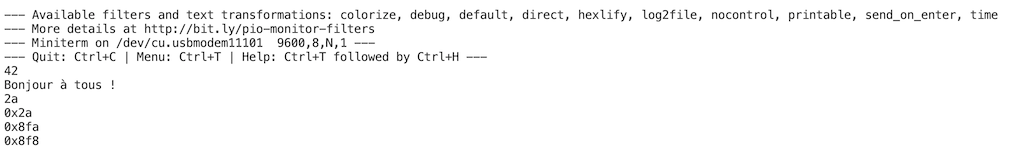
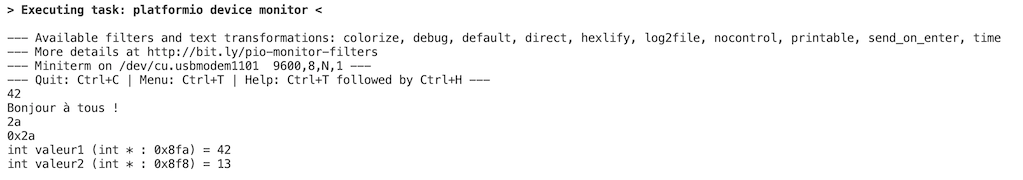
En cours Module 02

Changed region(s): [[0.0, 0.1579, 1.0, 0.9737], [0.0, 0.0263, 1.0, 0.1579]]

diff --git a/Module02_Introduction_Cpp/AMOC_Module02_DemoPortSerie/src/main.cpp b/Module02_Introduction_Cpp/AMOC_Module02_DemoPortSerie/src/main.cpp
@@ -1,4 +1,5 @@
 #include <Arduino.h>
+#include "passageParametres.h"
 
 void setup()
 {
@@ -6,12 +7,16 @@ void setup()
 
   int valeur1 = 42;
   int valeur2 = 13;
+  
   Serial.println(42);
   Serial.println("Bonjour à tous !");
   Serial.println(String(42, HEX));
   Serial.println("0x" + String(42, HEX));
-  Serial.println("0x" + String((uint16_t)(&valeur1), HEX));
-  Serial.println("0x" + String((uint16_t)(&valeur2), HEX));
+  Serial.println("int valeur1 (int * : 0x" + String((uint16_t)(&valeur1), HEX) + ") = " + String(valeur1));
+  Serial.println("int valeur2 (int * : 0x" + String((uint16_t)(&valeur2), HEX) + ") = " + String(valeur2));
+
+  Serial.println("Appel de passageDeParametres1(valeur1, valeur1, &valeur2);");
+  passageDeParametres1(valeur1, valeur1, &valeur2);
 }
 
 void loop()

diff --git a/Module02_Introduction_Cpp/AMOC_Module02_DemoPortSerie/src/passageParametres.cpp b/Module02_Introduction_Cpp/AMOC_Module02_DemoPortSerie/src/passageParametres.cpp
@@ -1,0 +1,9 @@
+#include <Arduino.h>
+
+#include "passageParametres.h"
+
+void passageDeParametres1(int p_v1, int &p_r1, int *p_p1) {
+  Serial.println("int p_v1 (int * : 0x" + String((uint16_t)(&p_v1), HEX) + ") = " + String(p_v1));
+  Serial.println("int &p_r1 (int * : 0x" + String((uint16_t)(&p_r1), HEX) + ") = " + String(p_r1));
+  Serial.println("int *p_p1 (int ** : 0x" + String((uint16_t)(&p_p1), HEX) + ") adresse : 0x" + String((uint16_t)p_p1, HEX) + " = " + String(*p_p1));
+}

diff --git a/Module02_Introduction_Cpp/AMOC_Module02_PreparationExercices/src/main.cpp b/Module02_Introduction_Cpp/AMOC_Module02_PreparationExercices/src/main.cpp
@@ -24,3 +24,5 @@ void loop()
   Serial.println(calculerMinimum(2 + 3, 4 + 7));
   Serial.println(calculerMaximum(2.0 + 3, 4.0 + 7));
 }
+
+

diff --git a/Module02_Introduction_Cpp/AMOC_Module02_DemoPortSerie/include/passageParametres.h b/Module02_Introduction_Cpp/AMOC_Module02_DemoPortSerie/include/passageParametres.h
@@ -1,0 +1,3 @@
+#pragma once
+
+void passageDeParametres1(int p_v1, int &p_r1, int *p_p1);

diff --git a/Module02_Introduction_Cpp/Module02_Introduction_Cpp_Exercices.md b/Module02_Introduction_Cpp/Module02_Introduction_Cpp_Exercices.md
@@ -8,35 +8,6 @@ Pour l'ensemble de ces exercices, vous allez utiliser :
 - Un café ou thé
 - De la patience ;)
 
-## Préambule - Affichage d'information sur le moniteur série
-
-Afin d'afficher de l'information, nous allons écrire du texte sur le port série simulé par votre Arduino. Avant de pouvoir écrire sur votre port série, vous devez configurer la vitesse de connexion du port série. Pour cela, dans la fonction "setup", appelez la méthode "begin" de l'objet accessible à partir de la variable globale "Serial". Pour cela, ajoutez l'instruction suivante ```Serial.begin(9600)```.
-
-À partir du moment où le port est initialisé, vous pouvez utiliser les méthodes "print" et "println" accessible à partir de la variable globale "Serial".
-
-Exemple :
-
-![Démo écriture sur le port série](img/moniteur_serie_exemple_code.png)
-
-- Créez le projet "AMOC_Module02_EssaisPortSerie"
-- Tapez le code de l'exemple, corrigez les erruers et téléversez le programme compilé dans votre Arduino
-- Allez visionner le résultat sur la console du port série. Pour cela cliquez sur l'icône en forme de prise qui se situe à côté du bouton de téléversement du code ([1]). Cela va ouvrir une console où les textes vont s'afficher ([2]) :
-
-![Console série](img/moniteur_serie.png)
-
-- Vous devriez obtenir un résultat proche de l'image suivante :
-
-![Résultat console](img/moniteur_serie_exemple_resultat.png)
-
-- À partir de votre résultat, en vous concentrant sur les deux derniers entiers qui sont affichés, validez la taille d'un entier.
-
-<details>
-    <summary>Indice #1</summary>
-
-Faites la soustraction des deux adresses correspondantes aux entiers.
-
-</details>
-
 ## Exercice 1 - Création de vos premières fonctions et manipulation de la structure du projet
 
 ### Exercice 1.1 - Séparation des déclarations et définitions
@@ -119,11 +90,67 @@ Dans cet exemple l'utilisation du paramètre ```x``` est encadrée par des paren
 
 Dans cet exercice, vous allez jouer avec les références et les pointeurs afin de mieux comprendre de quoi il en retourne.
 
+### Exercice 2.1 - Préambule - Affichage d'information sur le moniteur série
 
+Afin d'afficher de l'information, nous allons écrire du texte sur le port série simulé par votre Arduino. Avant de pouvoir écrire sur votre port série, vous devez configurer la vitesse de connexion du port série. Pour cela, dans la fonction "setup", appelez la méthode "begin" de l'objet accessible à partir de la variable globale "Serial". Pour cela, ajoutez l'instruction suivante ```Serial.begin(9600)```.
 
-### Exercice 2.2
+À partir du moment où le port est initialisé, vous pouvez utiliser les méthodes "print" et "println" accessible à partir de la variable globale "Serial".
 
+Exemple :
 
+![Démo écriture sur le port série](img/moniteur_serie_exemple_code.png)
+
+- Créez le projet "AMOC_Module02_EssaisPortSerie"
+- Tapez le code de l'exemple, corrigez les erruers et téléversez le programme compilé dans votre Arduino
+- Allez visionner le résultat sur la console du port série. Pour cela cliquez sur l'icône en forme de prise qui se situe à côté du bouton de téléversement du code ([1]). Cela va ouvrir une console où les textes vont s'afficher ([2]) :
+
+![Console série](img/moniteur_serie.png)
+
+- Vous devriez obtenir un résultat proche de l'image suivante :
+
+![Résultat console](img/moniteur_serie_exemple_resultat.png)
+
+- À partir de votre résultat, en vous concentrant sur les deux derniers entiers qui sont affichés, validez la taille d'un entier.
+
+<details>
+    <summary>Indice #1</summary>
+
+Faites la soustraction des deux adresses correspondantes aux entiers.
+
+</details>
+
+### Exercice 2.2 - Observations
+
+- Ajoutez la fonction suivante en répartissant la déclaration et la définition dans les fichiers "passageParametres.(cpp/h)"
+
+![Objservation des passages de paramètres](img/sortes_passage_parametres_code.png)
+
+- Modifiez le code de l'exercice précédent afin d'y intégrer l'appel à votre nouvelle fonction
+
+![Appel de passageDeParametres](img/sortes_passage_parametres_code_appel.png)
+
+- Vous devriez avoir un affichage similaire au suivant :
+
+![Affichage des adresses suivant l'affichage](img/sortes_passage_parametres_resultat.png)
+
+- Dessinez la mémoire et surtout ici la pile en vous basant sur les adresses affichées
+
+- Qu'observez-vous pour :
+  - La variable passée par copie
+  - La variable passée par référence
+  - La variable passée par copie de pointeur
+
+### Exercice 2.3 - À vous !
+
+- Écrivez la fonction "passageDeParametres2" qui prend en paramètres :
+  - Une référence de pointeur et qui modifie le pointeur en créant un nouvel entier sur le tas
+  - Un pointeur de pointeur et modifie le pointeur pointé en créant un nouvel entier sur le tas
+- Écrivez un appel à cette fonction :
+  - Affichez les valeurs avant l'appel
+  - Durant l'appel
+  - Après l'appel
+
+## Exercice 3 - On programme avec classe, c'est l'objet de l'exercice !
 
 
 Classe SOS avec pin en ctor
